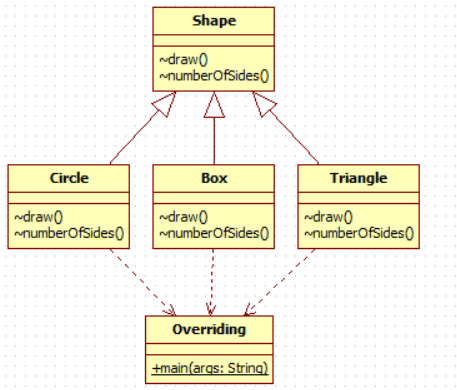
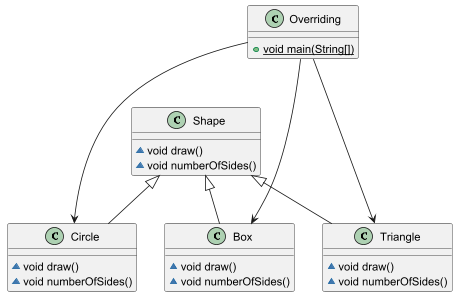
New stuff

diff --git a/main.tex b/main.tex
@@ -9,6 +9,7 @@
 \usepackage{graphicx}
 \usepackage{enumitem}
 \usepackage[backend=biber,style=authoryear]{biblatex}
+\usepackage[a4paper, left=1in, right=1in, top=1in, bottom=1in]{geometry}
 \usepackage{float}
 \usepackage{array}
 
@@ -20,6 +21,7 @@
 \definecolor{gray}{rgb}{0.5,0.5,0.5}
 \definecolor{mauve}{rgb}{0.58,0,0.82}
 
+\setcounter{secnumdepth}{0}
 \newcolumntype{M}[1]{>{\centering\arraybackslash}m{#1}}
 
 \lstset{frame=tb,
@@ -68,7 +70,7 @@
   You can use an existing diagram from a source (e.g.\ teaching material,
   wikipedia, book, etc), but clearly cite the source.
   (0.5 mark)
-  \begin{figure}[ht]
+  \begin{figure}[H]
     \includegraphics[width=\linewidth]{gof_example}
     \caption{An example of the GoF Factory Method Pattern \parencite{w3sdesignGoFDesignPatterns}}
     \label{fig:gof_example}
@@ -80,7 +82,7 @@
   Show your solution as a UML Class Diagram that exemplifies the
   UML general Class diagram you provided in Q3a on the system of Q1.
   (2 marks)
-  \begin{figure}[ht]
+  \begin{figure}[H]
       \includegraphics[width=\linewidth]{q3}\label{fig:3b-diagram}
   \end{figure}
   \subsection{c)}\label{subsec:3c)}
@@ -111,19 +113,19 @@
 
   \section{Question 4:}\label{sec:question-4:}
   \subsection{a)}\label{subsec:4a}
-  \begin{figure}[ht]
+  \begin{figure}[H]
     \includegraphics[width=\linewidth]{q4a}
     \caption{A diagram of the GoF Observer Pattern \parencite{wikipediaObserverPattern2025}}
     \label{fig:q4a}
   \end{figure}
 
-  \subsection{b and c)}\label{subsec:4b-and-c}
+  \subsection{4b and 4c)}\label{subsec:4b-and-c}
   \begin{figure}[H]
     \includegraphics[width=\linewidth]{q4b}
     \label{fig:q4b}
   \end{figure}
 
-  \subsection{d}\label{subsec:4d}
+  \subsection{4d}\label{subsec:4d}
   \begin{table}[H]
     \centering
     \begin{tabular}{M{0.5\textwidth}|M{0.5\textwidth}}
@@ -141,12 +143,13 @@
   \end{table}
 
   \section{Question 5:}\label{sec:question-5}
-  \subsection{a)}\label{subsec:5a}
+  \subsection{5a)}\label{subsec:5a}
   Provide background information about your project (e.g.\ topic, programming language, platform, etc) (1 mark).
   \newline
-  The project is an implementation of Othello with a minimax AI in python, designed to run in a CLI\@.
+  The project is an implementation of Othello with a minimax AI in python, designed to run in a CLI on any platform that could run python\@.
+  It utilizes a 2D array of strings to represent board state, and was created for my A-level final year project.
 
-  \subsection{b}\label{subsec:5b}
+  \subsection{5b}\label{subsec:5b}
   Explain the problem (antipattern/code smell) in your project, using artefacts (code, architecture, management) that show your project before applying
   refactoring (3 marks).
   As seen in figure~\ref{subsec:figure-5-code}, this code has a couple of code smells.
@@ -164,6 +167,7 @@
   \subsubsection{Primitive Obsession}
   Strings are used to represent the pieces on the board in a 2D list.
   This makes it difficult for comparisons, and requires hardcoded values to keep consistent across different modules.
+  The coordinates are also represented as a tuple of integers, which make it difficult to perform basic operations on without requiring multiple repeating lines of code, and the order of the x and y can be mixed up very easily.
 
   \subsubsection{Long methods}
  board.py@41 onwards, the placePiece function is quite long and can be broken into individual steps.
@@ -172,22 +176,43 @@
   A constants file was used in the project to enforce consistency with comparisons such as checking piece color.
 
 
-  \subsection{c}\label{subsec:5c}
+  \subsection{5c}\label{subsec:5c}
   Discuss the refactoring solution you applied and provide details on how it was applied to your project.
-  Include any artefacts (code, diagrams, processes) altered by the refactoring solution you applied (3 marks).
-
-
+  Include any artifacts (code, diagrams, processes) altered by the refactoring solution you applied (3 marks).
+  \newline\newline
+  The usage of primitives on the board made it quite difficult to mutate state, as each piece did not have an easy way to compare their states, relying on string comparison.
+  We change the board - Still a 2D array, however pieces are now represented by a dedicated piece class.
+  Their colour is represented by an enum, which has a method to return the opposite colour, which is used quite frequently when checking for opposing side pieces.
+  Each piece starts as blank, meaning when creating the board, we only need to instantiate the piece class and place it into the 2D array, instead of manually appending strings that represent blank into the board.
+  \newline
+  Coordinates throughout the code were changed to be its own class, storing X and Y, and also implementing addition logic to allow two coordinates to be added together easily.
+  These are closer to vectors rather than points in space, but for the sake of naming schemes we call them coordinates.
+  \newline
+  The piece placing process was broken down into three main steps:
+  \begin{itemize}
+      \item Check that the coordinates specified are valid (Validate input)
+      \item Find the pieces that will be affected by this move (Observe state)
+      \item Flip the pieces and place the new piece on the board (Update state)
+  \end{itemize}
+  For our first step, we created a function that takes coordinates and the colour to be placed, and returns boolean, representing if the move is valid or not.
+  When validating a move in othello, it must be within the board bounds, and it must flip at least one enemy piece.
+  Thus, this is broken down again into two functions which return boolean, one that takes coordinates and returns true if the piece is within bounds,and another which checks if the move affects at least one enemy piece.
+  For the second step, we reuse the function we created to check if our move affects enemy pieces in validation to retrieve a list of all the pieces we need to flip.
+  This step also had a lot of hardcoded values, which were replaced with loops and the state stored in the pieces.
+  The final step, we simply iterate over this list, and call .flipPiece on all of them to update their state.
+  A lot of the functions had error states that relied on the global functions to map error codes to error.
+  This was poorly implemented and handled, and thus was removed from this section of code.
 
   \section{Appendix}\label{sec:appendix}
   \begin{enumerate}[label=\alph*)]
-    \item Software Tool used for drawing UML Diagrams: StarUML
+    \item Software Tool used for drawing UML Diagrams: StarUML, PlantUML
     \item {Did you use software to automate conversion of diagrams to code or code diagrams?
     \begin{itemize}
       \item {
         YES, I USED software to automate conversions of diagrams to code and/or
       code to diagrams
       \begin{itemize}
-              \item if YES, complete software name here: StarUML Java Reverse Engineering
+              \item if YES, complete software name here: StarUML Java Reverse Engineering, IntelliJ Java to PlantUML
       \end{itemize}
       }
     \end{itemize}

diff --git a/python/src/refactored/board.py b/python/src/refactored/board.py
@@ -54,7 +54,9 @@ class Board: # FIXME: Large class
         piece = self.get_piece(coordinate)
         if piece != Colour.BLANK:
             return
-        self.get_cascading_pieces(coordinate,colour)
+        pieces_to_flip = self.get_cascading_pieces(coordinate,colour)
+        for piece in pieces_to_flip:
+            piece.flip_piece()
 
     def get_cascading_pieces(self, coordinate: Coordinate, colour: Colour):
         cascading: List[Piece] = []
@@ -69,7 +71,7 @@ class Board: # FIXME: Large class
     def check_direction(self, colour:Colour, current_coordinate: Coordinate, offset: Coordinate, to_flip: List[Piece]):
         newCoordinate = current_coordinate + offset
         if not self.coordinate_is_in_bounds(newCoordinate):
-            return to_flip
+            return []
         piece = self.get_piece(newCoordinate)
         if piece.colour == colour.opposite():
             to_flip.append(piece)
